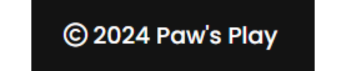
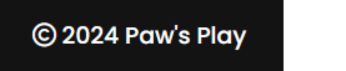
Add new image for copyright in readme

diff --git a/README.md b/README.md
@@ -29,6 +29,9 @@ The users of this website will be able to find all relevant information about th
   2. [Socials](#socials)
   3. [Newsletter](#newsletter)
   4. [Copyright](#copyright)
+- [Typography](#typography)
+
+### [4. Individual page elements](#individual-page-elements)
 
 ## Planning stage <a name="planning-stage"></a>
 
@@ -141,8 +144,12 @@ The footer element is at the very bottom of every page, it includes the followin
 - The copyright section in the footer has a copyright icon stating its the copyright section.
 - The copyright section has a "2024" mark stating its valid till 2024, this is just a dummy copyright for proof of concept.
 
-## Typography
+## Typography <a name="typography"></a>
 
 - The Paw's Play site uses the font Poppins.
 - Also sans-serif for a back-up font.
 - The Poppins font was used because of how beautiful it is.
+
+## Individual page elements <a name="individual-page-elements"></a>
+
+## Header Page Content:
